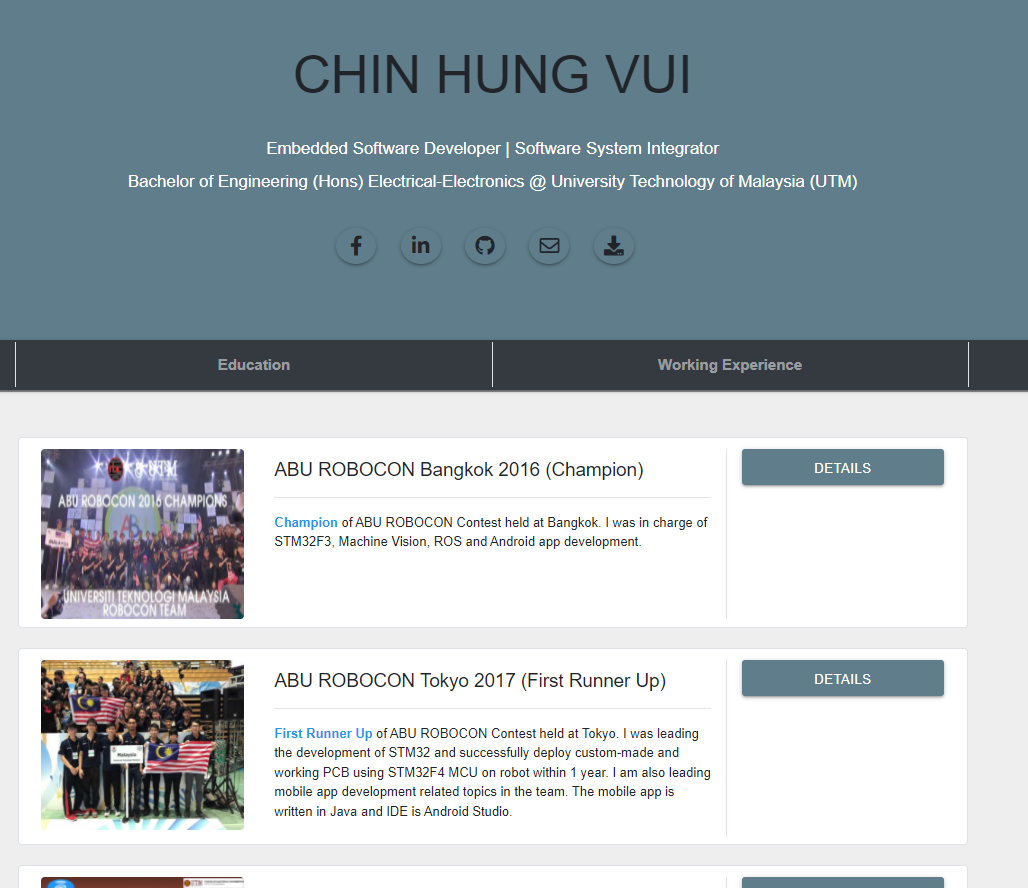
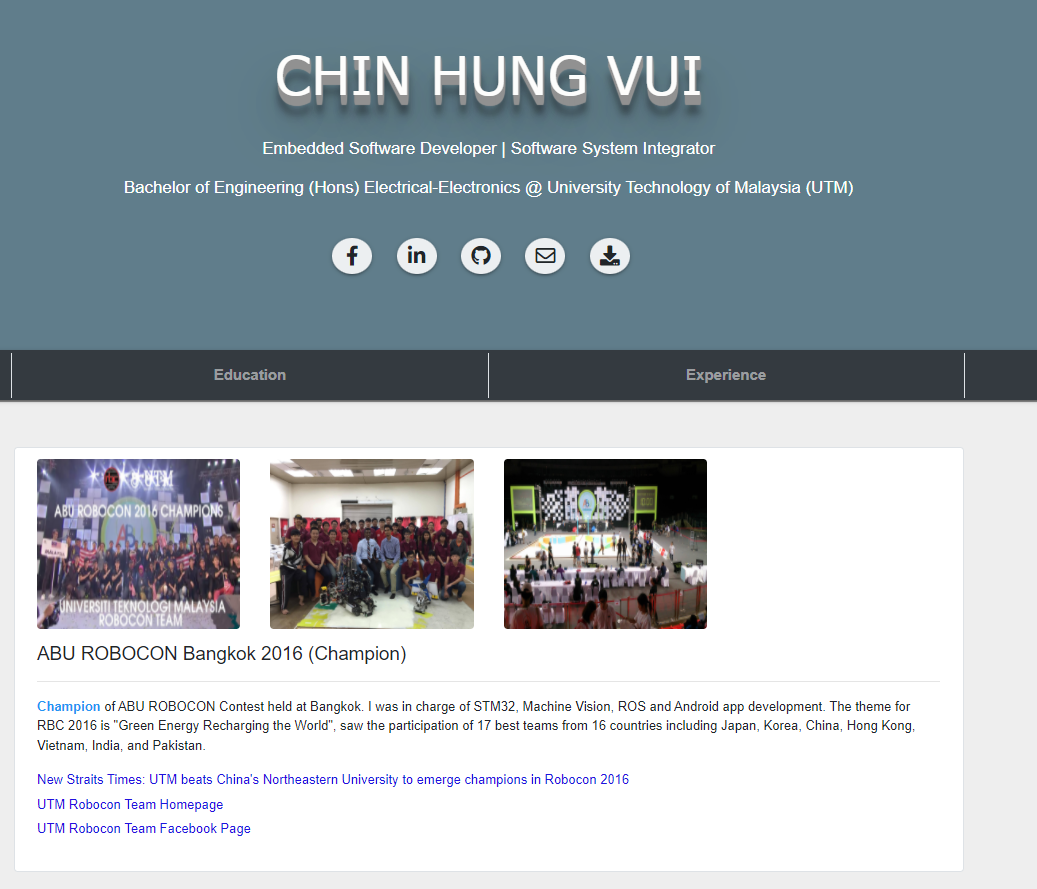
✨ feat: restructure project
restructure the look and feel of project

diff --git a/projects.html b/projects.html
@@ -16,102 +16,153 @@
         <div class="d-flex justify-content-center row">
             <div class="col-md-10">
                 <div class="row p-2 bg-white border rounded">
-                    <div class="col-md-3 mt-1 outer_center" onclick="window.parent.parent.scrollTo(0,100)"><img id="myImg" class="img-fluid img-responsive rounded product-image inner_center myImages" src="resource/images/ABURBC_2016.PNG" alt="ABU ROBOCON 2016" ></div>
-                    <div class="col-md-6 mt-1">
+                    <div class="col-md-3 mt-1 outer_center" onclick="window.parent.parent.scrollTo(0,100)"><img id="myImg" class="img-responsive rounded product-image inner_center myImages" src="resource/images/ABURBC_2016.PNG" alt="ABU ROBOCON 2016" ></div>
+                    <div class="col-md-3 mt-1 outer_center" onclick="window.parent.parent.scrollTo(0,100)"><img id="myImg" class="img-responsive rounded product-image inner_center myImages" src="resource/images/ABURBC_2016_Lab.jpg" alt="UTM Robocon Team 2016" ></div>
+                    <div class="col-md-3 mt-1 outer_center" onclick="window.parent.parent.scrollTo(0,100)"><img id="myImg" class="img-responsive rounded product-image inner_center myImages" src="resource/images/ABURBC_2016_GameField.jpg" alt="Gamefield at Bangkok" ></div>
+                    <div class="col-md-12 mt-1">
                         <h5 style="padding-top:10px;">ABU ROBOCON Bangkok 2016 (Champion) </h5>
                         <hr/>                       
                         <p class="body_text">
-                            <b class="blue-text">Champion</b> of ABU ROBOCON Contest held at Bangkok. I was in charge of STM32F3, Machine Vision, ROS and Android app development.
+                            <b class="blue-text">Champion</b> of ABU ROBOCON Contest held at Bangkok. I was in charge of STM32, Machine Vision, ROS and Android app development. The theme for RBC 2016 is "Green Energy Recharging the World", saw the participation of 17 best teams from 16 countries including Japan, Korea, China, Hong Kong, Vietnam, India, and Pakistan.
+                        </p>        
+                        <p class="link_text">
+                            <a href="https://www.nst.com.my/news/2016/08/167506/utm-beats-chinas-northeastern-university-emerge-champions-robocon-2016" target="_blank" rel="noopener noreferrer"> New Straits Times: UTM beats China's Northeastern University to emerge champions in Robocon 2016 </a>
+                        </p>    
+                        <p class="link_text">
+                            <a href="https://utmrbc.herokuapp.com/team.php" target="_blank" rel="noopener noreferrer"> UTM Robocon Team Homepage </a>
+                        </p>     
+                        <p class="link_text">
+                            <a href="https://business.facebook.com/utmrbc/?ref=py_c" target="_blank" rel="noopener noreferrer"> UTM Robocon Team Facebook Page </a>
                             <br><br>
-                        </p>                      
+                        </p>         
                     </div>
-                    <div class="align-items-center align-content-center col-md-3 border-left mt-1">
+                    <!-- <div class="align-items-center align-content-center col-md-3 border-left mt-1">
                         <div class="d-flex flex-column mt-0"><a href="https://www.nst.com.my/news/2016/08/167506/utm-beats-chinas-northeastern-university-emerge-champions-robocon-2016" target="_blank " class="btn btn-primary btn-sm custom_btn"><p style="padding-top: 5px;">Details</p></a></div>
-                    </div>
+                    </div> -->
                 </div>
 
                 <div class="row p-2 bg-white border rounded">
-                    <div class="col-md-3 mt-1 outer_center" onclick="window.parent.parent.scrollTo(0,100)"><img id="myImg" class="img-fluid img-responsive rounded product-image inner_center myImages" src="resource/images/ABURBC_2017.PNG" alt="ABU ROBOCON 2017" ></div>
-                    <div class="col-md-6 mt-1">
+                    <div class="col-md-3 mt-1 outer_center" onclick="window.parent.parent.scrollTo(0,100)"><img id="myImg" class="img-responsive rounded product-image inner_center myImages" src="resource/images/ABURBC_2017.PNG" alt="ABU ROBOCON 2017" ></div>
+                    <div class="col-md-3 mt-1 outer_center" onclick="window.parent.parent.scrollTo(0,100)"><img id="myImg" class="img-responsive rounded product-image inner_center myImages" src="resource/images/First Runner Up.jpg" alt="First Runner Up" ></div>
+                    <div class="col-md-3 mt-1 outer_center" onclick="window.parent.parent.scrollTo(0,100)"><img id="myImg" class="img-responsive rounded product-image inner_center myImages" src="resource/images/RBC_2017_Tokyo_GameField.PNG" alt="Tokyo Game Field" ></div>
+                    <div class="col-md-3 mt-1 outer_center" onclick="window.parent.parent.scrollTo(0,100)"><img id="myImg" class="img-responsive rounded product-image inner_center myImages" src="resource/images/RBC_2017_Opening_Show.PNG" alt="Tokyo Robocon Opening Show" ></div>
+                    <div class="col-md-12 mt-1">
                         <h5 style="padding-top:10px;">ABU ROBOCON Tokyo 2017 (First Runner Up)</h5>
                         <hr/>                       
                         <p class="body_text">
                             <b class="blue-text">First Runner Up </b>of ABU ROBOCON Contest held at Tokyo. I was leading the development of STM32 and successfully deploy custom-made and working PCB using STM32F4 MCU on robot within 1 year. I am also leading mobile app development related topics in the team. The mobile app is written in Java and IDE is Android Studio.
-                        </p>                      
+                        </p> 
+                        <p class="link_text">
+                            <a href="https://news.utm.my/2017/09/utm-is-the-1st-runner-up-for-abu-asia-pacific-robot-contest-robocon-2017-tokyo/" target="_blank" rel="noopener noreferrer"> UTM is the 1st Runner-Up for ABU Asia-Pacific Robot Contest (ROBOCON) 2017 Tokyo </a>
+                        </p>  
+                        <p class="link_text">
+                            <a href="https://www.youtube.com/watch?v=iXrQ8yU1vZI" target="_blank" rel="noopener noreferrer"> Youtube: Quarter Final Match Malaysia vs Japan </a>
+                        </p>    
+                        <p class="link_text">
+                            <a href="https://www.youtube.com/watch?v=huzm9mrEZJE&list=PLIGxraJczqOHj_BGvhkg-KLsZcZHi6TWl" target="_blank" rel="noopener noreferrer"> Youtube: Final Match Malaysia vs Vietnam </a>
+                            <br><br>
+                        </p>                       
                     </div>
-                    <div class="align-items-center align-content-center col-md-3 border-left mt-1">
+                    <!-- <div class="align-items-center align-content-center col-md-3 border-left mt-1">
                         <div class="d-flex flex-column mt-0"><a href="https://news.utm.my/2017/09/utm-is-the-1st-runner-up-for-abu-asia-pacific-robot-contest-robocon-2017-tokyo/" target="_blank " class="btn btn-primary btn-sm custom_btn"><p style="padding-top: 5px;"> Details</p></a></div>
-                    </div>
+                    </div> -->
                 </div>
 
                 <div class="row p-2 bg-white border rounded">
-                    <div class="col-md-3 mt-1 outer_center" style="height:200px;" onclick="window.parent.parent.scrollTo(0,100)"><img id="myImg" class="img-fluid img-responsive rounded product-image inner_center myImages" src="resource/images/EzPark.PNG" alt="EzPark"></div>
-                    <div class="col-md-6 mt-1">
+                    <div class="col-md-3 mt-1 outer_center" onclick="window.parent.parent.scrollTo(0,100)"><img id="myImg" class="img-responsive rounded product-image inner_center myImages" src="resource/images/EzPark.PNG" alt="EzPark's Poster" ></div>
+                    <div class="col-md-3 mt-1 outer_center" onclick="window.parent.parent.scrollTo(0,100)"><img id="myImg" class="img-responsive rounded product-image inner_center myImages" src="resource/images/EzPark_Setup.PNG" alt="EZPark Setup" ></div>
+                    <div class="col-md-3 mt-1 outer_center" onclick="window.parent.parent.scrollTo(0,100)"><img id="myImg" class="img-responsive rounded product-image inner_center myImages" src="resource/images/CapPark_Capturing.PNG" alt="Free Parking Slot Capturing" ></div>
+                    <div class="col-md-3 mt-1 outer_center" onclick="window.parent.parent.scrollTo(0,100)"><img id="myImg" class="img-responsive rounded product-image inner_center myImages" src="resource/images/EzPark_Awards.PNG" alt="EzPark Award Ceremony" ></div>
+                    <div class="col-md-12 mt-1">
                         <h5 style="padding-top:10px;"> EzPark </h5>
                         <hr/>                       
                         <p class="body_text">
-                            EzPark is developed to help users to find available parking spot in Malaysia. EzPark has won the <b class="blue-text">Theme Award </b>in FKE Capstone Project.
-                        </p>                      
+                            EzPark is developed to help users to find available parking spot in Malaysia. EzPark has won the <b class="blue-text">Theme Award </b>in FKE Capstone Project. I was the leader of the team. I was in charge of Android Mobile App development, computer vision algorithm to detect free parking lots, and cloud setup using Firebase.
+                        </p>   
+                        
+                        <a href="https://github.com/LeonardChin2017/SmartParkingApp-EzPark" target="_blank " rel="noopener noreferrer" role="button" class="btn btn-secondary btn-sm"> View Code </a>
+                        <br><br>
                     </div>
-                    <div class="align-items-center align-content-center col-md-3 border-left mt-1">
-                        <div class="d-flex flex-column mt-0"><a href="https://github.com/LeonardChin2017/SmartParkingApp-EzPark" target="_blank " class="btn btn-primary btn-sm custom_btn"><i class="fab fa-git"></i></a></div>
-                    </div>
+                    <!-- <div class="align-items-center align-content-center col-md-3 border-left mt-1">
+                        <div class="d-flex flex-column mt-0"><a href="https://github.com/LeonardChin2017/SmartParkingApp-EzPark" target="_blank " class="btn btn-secondary btn-dark btn-sm"> View Code </a></div>
+                    </div> -->
                 </div>
 
                 <div class="row p-2 bg-white border rounded">
-                    <div class="col-md-3 mt-1 outer_center" style="height:200px;" onclick="window.parent.parent.scrollTo(0,100)"><img id="myImg" class="img-fluid img-responsive rounded product-image inner_center myImages" src="resource/images/ImagineCupMalaysia.PNG" alt="Microsoft Imagine Cup 2018"></div>
-                    <div class="col-md-6 mt-1">
+                    <div class="col-md-3 mt-1 outer_center" onclick="window.parent.parent.scrollTo(0,100)"><img id="myImg" class="img-responsive rounded product-image inner_center myImages" src="resource/images/ImagineCupMalaysia.PNG" alt="EzPark's Poster" ></div>
+                    <div class="col-md-3 mt-1 outer_center" onclick="window.parent.parent.scrollTo(0,100)"><img id="myImg" class="img-responsive rounded product-image inner_center myImages" src="resource/images/ImageCup_TheDay.PNG" alt="EZPark Setup" ></div>
+                    <div class="col-md-3 mt-1 outer_center" onclick="window.parent.parent.scrollTo(0,100)"><img id="myImg" class="img-responsive rounded product-image inner_center myImages" src="resource/images/MicrosoftImageCup_GroupPhoto.PNG" alt="Free Parking Slot Capturing" ></div>
+                    <div class="col-md-3 mt-1 outer_center" onclick="window.parent.parent.scrollTo(0,100)"><img id="myImg" class="img-responsive rounded product-image inner_center myImages" src="resource/images/MicrosoftImagineCup_Project.PNG" alt="EzPark Award Ceremony" ></div>
+                    <div class="col-md-12 mt-1">
                         <h5 style="padding-top:10px;"> Health Sight </h5>
                         <hr/>                       
                         <p class="body_text">
                             Health Sight has won the <b class="blue-text">Champion of Microsoft Imagine Cup Malaysia </b> in 2018. Health Sight is an intelligent surveillance system that can understand and predict activities and movements of the patients, using deep learning technology, to prevent unwanted incidents.
-                        </p>                      
+                        </p>   
+                        <p class="link_text">
+                            <a href="https://news.utm.my/2018/03/utm-wins-again-at-the-malaysia-microsoft-imagine-cup-national-final-2018/" target="_blank" rel="noopener noreferrer"> UTM wins again at the Malaysia Microsoft Imagine Cup National Final 2018 </a>
+                        </p>     
+                        <p class="link_text">
+                            <a href="https://www.youtube.com/watch?v=r3Mukb6G9os" target="_blank" rel="noopener noreferrer"> Youtube: Microsoft Imagine Cup 2018 APAC Regional Finals </a>
+                            <br><br>
+                        </p>                  
                     </div>
-                    <div class="align-items-center align-content-center col-md-3 border-left mt-1">
+                    <!-- <div class="align-items-center align-content-center col-md-3 border-left mt-1">
                         <div class="d-flex flex-column mt-0"><a href="https://news.utm.my/2018/03/utm-wins-again-at-the-malaysia-microsoft-imagine-cup-national-final-2018/" target="_blank " class="btn btn-primary btn-sm custom_btn"><p style="padding-top: 5px;">Details</p></a></div>
-                    </div>
+                    </div> -->
                 </div>
 
                 <div class="row p-2 bg-white border rounded">
-                    <div class="col-md-3 mt-1 outer_center" style="height:200px;" onclick="window.parent.parent.scrollTo(0,100)"><img id="myImg" class="img-fluid img-responsive rounded product-image inner_center myImages" src="resource/images/InsightX.PNG" alt="InsightX 2018"></div>
-                    <div class="col-md-6 mt-1">
+                    <div class="col-md-3 mt-1 outer_center" onclick="window.parent.parent.scrollTo(0,100)"><img id="myImg" class="img-responsive rounded product-image inner_center myImages" src="resource/images/InsightX.PNG" alt="InsightX's Poster" ></div>
+                    <div class="col-md-3 mt-1 outer_center" onclick="window.parent.parent.scrollTo(0,100)"><img id="myImg" class="img-responsive rounded product-image inner_center myImages" src="resource/images/InnovateMalaysia_GroupPhoto.PNG" alt="Group Photo" ></div>
+                    <div class="col-md-3 mt-1 outer_center" onclick="window.parent.parent.scrollTo(0,100)"><img id="myImg" class="img-responsive rounded product-image inner_center myImages" src="resource/images/InsightX_App.PNG" alt="InsightX Mobile Application" ></div>
+                    <div class="col-md-3 mt-1 outer_center" onclick="window.parent.parent.scrollTo(0,100)"><img id="myImg" class="img-responsive rounded product-image inner_center myImages" src="resource/images/InsightX_AR.PNG" alt="InsightX Augmented Reality" ></div>
+                    <div class="col-md-12 mt-1">
                         <h5 style="padding-top:10px;"> InsightX </h5>
                         <hr/>                       
                         <p class="body_text">
                             InsightX has won the <b class="blue-text">Regional Winner of Innovate Malaysia (SAS Track) 2018</b>. InsightX is a robotics diagnosis system based on big data analytics and machine learning.
-                        </p>                      
+                        </p>  
+                        <p class="link_text">
+                            <a href="https://xcite.utm.my/utm-triumphed-the-innovate-malaysia-design-competition-2018-winning-12-prizes-from-16-categories/" target="_blank" rel="noopener noreferrer"> UTM triumphed the Innovate Malaysia Design Competition 2018 winning 12 Prizes from 16 Categories </a>
+                            <br><br>
+                        </p>                    
                     </div>
-                    <div class="align-items-center align-content-center col-md-3 border-left mt-1">
+                    <!-- <div class="align-items-center align-content-center col-md-3 border-left mt-1">
                         <div class="d-flex flex-column mt-0"><a href="https://xcite.utm.my/utm-triumphed-the-innovate-malaysia-design-competition-2018-winning-12-prizes-from-16-categories/" target="_blank " class="btn btn-primary btn-sm custom_btn"><p style="padding-top: 5px;">Details</p></a></div>
-                    </div>
+                    </div> -->
                 </div>
 
                 <div class="row p-2 bg-white border rounded">
-                    <div class="col-md-3 mt-1 outer_center" style="height:200px;" onclick="window.parent.parent.scrollTo(0,100)"><img id="myImg" class="img-fluid img-responsive rounded product-image inner_center myImages" src="resource/images/TGL.PNG" alt="The Grand Design (TGL) Challenge"></div>
-                    <div class="col-md-6 mt-1">
+                    <div class="col-md-3 mt-1 outer_center" onclick="window.parent.parent.scrollTo(0,100)"><img id="myImg" class="img-responsive rounded product-image inner_center myImages" src="resource/images/TGL.PNG" alt="The Grand Design Challenge" ></div>
+                    <div class="col-md-3 mt-1 outer_center" onclick="window.parent.parent.scrollTo(0,100)"><img id="myImg" class="img-responsive rounded product-image inner_center myImages" src="resource/images/MESO_Team.PNG" alt="MESO Team Photo" ></div>
+                    <div class="col-md-3 mt-1 outer_center" onclick="window.parent.parent.scrollTo(0,100)"><img id="myImg" class="img-responsive rounded product-image inner_center myImages" src="resource/images/IoT Hackathon.PNG" alt="IoT Hackathon" ></div>
+                    <div class="col-md-12 mt-1">
                         <h5 style="padding-top:10px;"> MESO </h5>
                         <hr/>                       
                         <p class="body_text">
                             MESO has won the <b class="blue-text">Champion of The Grand Design (TGL) Challenge and Champion of IoT Hackathon</b>. MESO is a machinery diagnosis and predictive maintenance system.
                         </p>                      
                     </div>
-                    <div class="align-items-center align-content-center col-md-3 border-left mt-1">
+                    <!-- <div class="align-items-center align-content-center col-md-3 border-left mt-1">
                         <div class="d-flex flex-column mt-0"><a href="https://news.utm.my/2017/11/fke-student-team-won-the-great-lab-grand-design-challenge-2017/" target="_blank " class="btn btn-primary btn-sm custom_btn"><p style="padding-top: 5px;">Details</p></a></div>
-                    </div>
+                    </div> -->
                 </div>
 
                 <div class="row p-2 bg-white border rounded">
-                    <div class="col-md-3 mt-1 outer_center" style="height:200px;" onclick="window.parent.parent.scrollTo(0,100)"><img id="myImg" class="img-fluid img-responsive rounded product-image inner_center myImages" src="resource/images/MyPortFolio.PNG" alt="My Portfolio"></div>
-                    <div class="col-md-6 mt-1">
+                    <div class="col-md-3 mt-1 outer_center" onclick="window.parent.parent.scrollTo(0,100)"><img id="myImg" class="img-responsive rounded product-image inner_center myImages" src="resource/images/MyPortFolio.PNG" alt="My Portfolio" ></div>
+                    <div class="col-md-12 mt-1">
                         <h5 style="padding-top:10px;">  My Website </h5>
                         <hr/>                       
                         <p class="body_text">
-                            My portfolio website.
-                        </p>                      
+                            My portfolio website. Written in HTML, CSS, and Javascript.
+                        </p>  
+                        <a href="https://github.com/LeonardChin2017/leonardchin2017.github.io" target="_blank " rel="noopener noreferrer" role="button" class="btn btn-secondary btn-sm"> View Code </a>
+                        <br><br>                    
                     </div>
-                    <div class="align-items-center align-content-center col-md-3 border-left mt-1">
+                    <!-- <div class="align-items-center align-content-center col-md-3 border-left mt-1">
                         <div class="d-flex flex-column mt-0"><a href="https://github.com/LeonardChin2017/leonardchin2017.github.io" target="_blank " class="btn btn-primary btn-sm custom_btn"><i class="fab fa-git"></i></a></div>
-                    </div>
+                    </div> -->
                 </div>
             </div>
         </div>

diff --git a/css/project.css b/css/project.css
@@ -37,6 +37,11 @@ h5 {
     font-size: 13px;
 }
 
+.link_text{
+  font-size: 13px;
+  margin-bottom: 5px;
+}
+
 .para {
     font-size: 16px
 }
@@ -65,8 +70,21 @@ h5 {
     transform: translateY(-50%);
   }
 
-  a:hover {color: white;}
-  a { color: white; text-decoration: none;}
+  a:hover {color: rgb(248, 16, 16);}
+  a { color: rgb(32, 18, 223); text-decoration: none;}
+
+  .btn {
+    height: 25px;
+  }
+  
+  .line-height-example {
+     line-height: 10px;
+     min-height: 10px;
+  }
+  a {
+   display:inline-flex !important;
+   align-items:center !important;
+  }
 
  /* Modal Image Styling*/
  /* Style the Image Used to Trigger the Modal */
